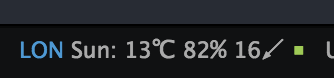
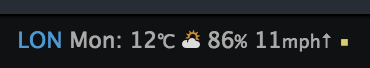
New screenshot and readme. Should have done this before publishing, meh

Changed region(s): [[0.0299, 0.4412, 1.0, 0.7647], [0.0, 0.2059, 1.0, 0.3235]]

diff --git a/README.md b/README.md
@@ -12,15 +12,16 @@ Status bar with all elements:
 
 ## Configuration
 
-* `location` &mdash; WOEID of the location (see [next section](#Get WOEID value from metaweather.com))
-* `locationName` &mdash; Name of the location (leave blank to fetch from API)
-* `showTemperature` &mdash; Shows temperature indicator [`true`, `false`]
-* `showWind` &mdash; Shows winds indicator [`true`, `false`]
-* `showHumidity` &mdash; Shows humidity indicator [`true`, `false`]
-* `showPredictability` &mdash; Shows validity of prediction indicator [`true`, `false`]
-* `position` &mdash; Control the placement of the indicator [`left`, `right`]
-* `updateTime` &mdash; Control the refresh time (150s default)
-* `cycleDates` &mdash; Cycle through today/tomorrow (default `true`)
+* `location` &mdash; WOEID of the location (see [next section](#Get WOEID value from metaweather.com)). Leave blank to automatically fetch from the user's current location
+* `locationName` &mdash; Name of the location. Leave blank to automatically fetch from API
+* `showTemperature` &mdash; Shows the temperature meter [`true`, `false`]
+* `showWeatherIcon` &mdash; Shows the weather state icon [`true`, `false`]
+* `showWind` &mdash; Shows the wind speed meter [`true`, `false`]
+* `showHumidity` &mdash; Shows the humidity meter [`true`, `false`]
+* `showPredictability` &mdash; Shows an indicator for the validity of a prediction (red=bad, yellow=average, green=good)[`true`, `false`]
+* `position` &mdash; Control the placement of the meters [`left`, `right`]
+* `cycleDates` &mdash; Allow cycling through today/tomorrow (default `true`)
+* `updateTime` &mdash; Control the refresh time in seconds between today and tomorrow dates cycle (default `60`)
 
 
 ### Get WOEID value from metaweather.com
@@ -31,6 +32,11 @@ To get your city's number, visit https://www.metaweather.com/api/#locationsearch
 - the API response will give you the WOEID number `44418`
 - open atom-metaweather settings and add the WOEID number
 - [optional] you can use the `title` response field to populate locationName
+
+
+## Credits
+
+All weather data and icons are taken from [metaweather.com](https://www.metaweather.com)
 
 
 ## Copyright
